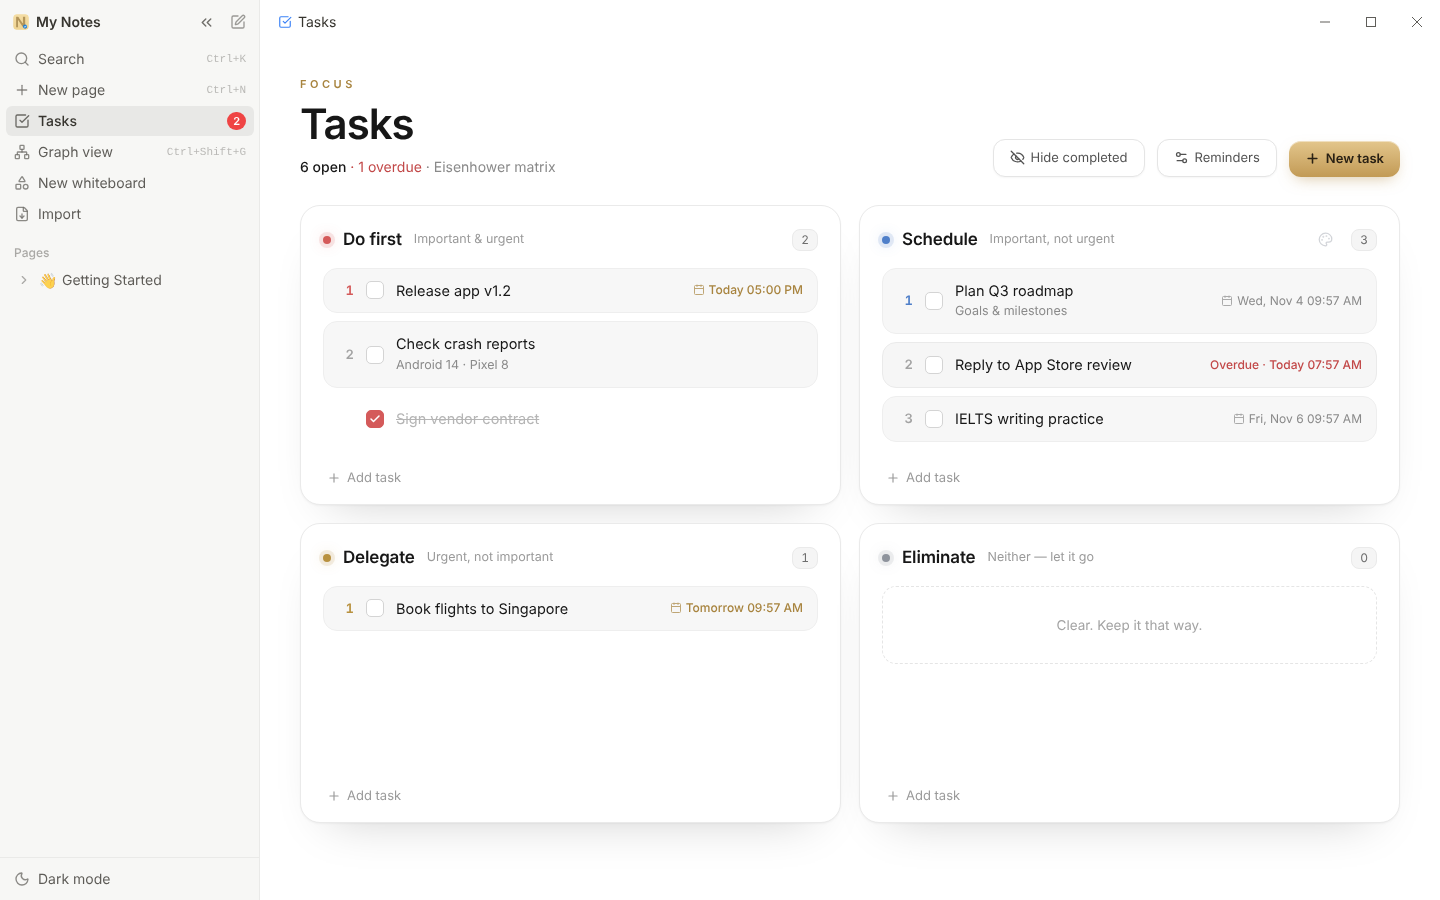
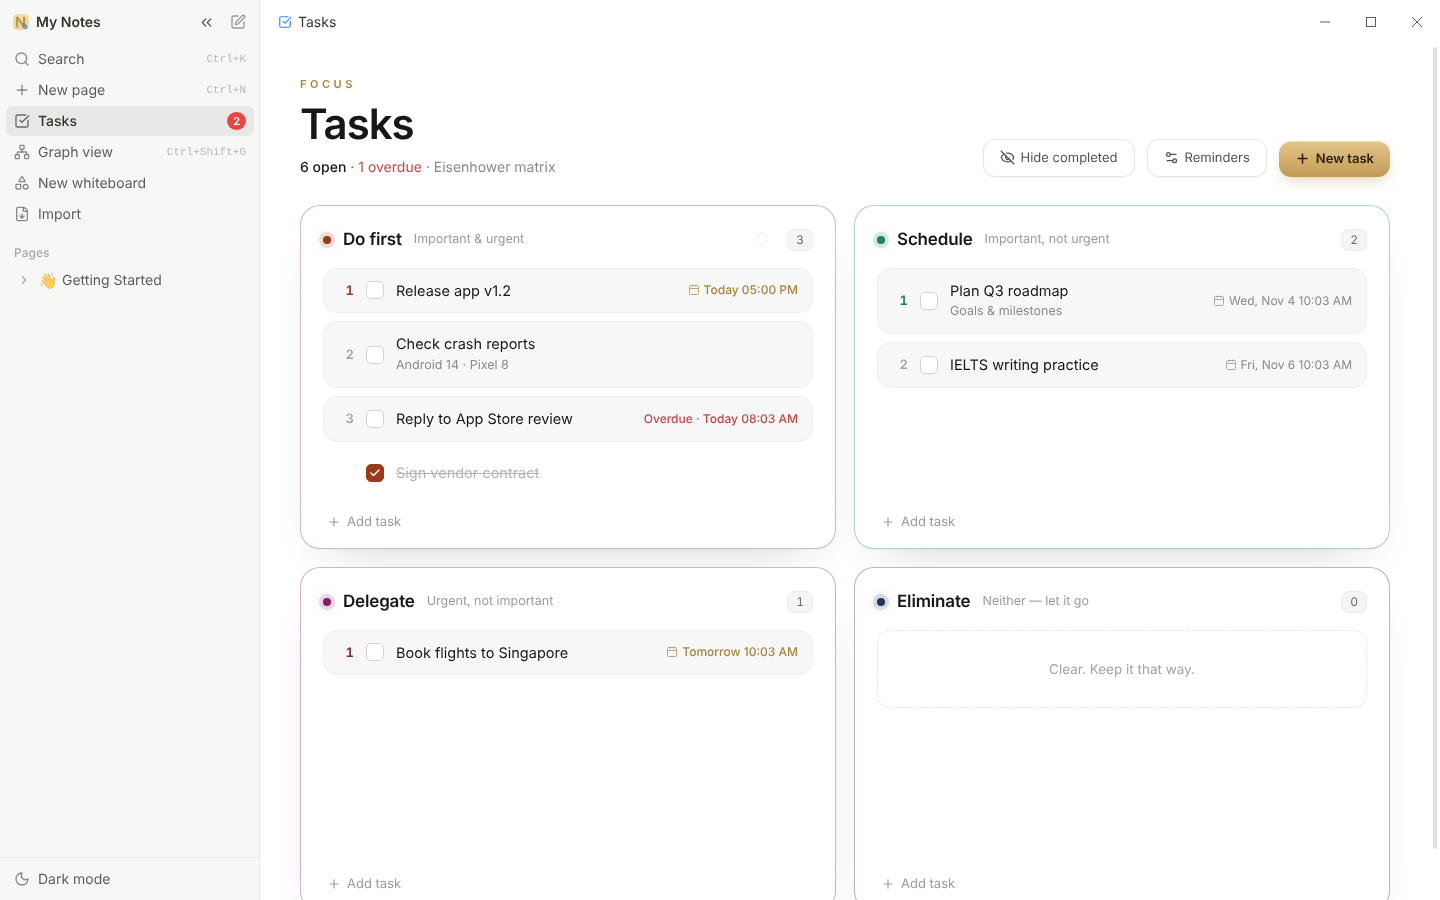
Tasks: new light-mode default quadrant colors with colored borders
Light-mode defaults: Do first #993A1A, Schedule #1C8256, Delegate #861D65,
Eliminate #233557 — dot, border (35%), done checkboxes and priority 1 use
them. Dark mode keeps its own defaults and plain borders. Custom colors
still override.

Claude-Session: https://claude.ai/code/session_01QpNh97sWBG9tMps76N7oQ1

diff --git a/tests/components/tasks.test.tsx b/tests/components/tasks.test.tsx
@@ -80,13 +80,18 @@ describe('TaskMatrix', () => {
     const dot = (region: HTMLElement) => within(region).getByTestId('quadrant-dot').style.background
     expect(dot(doFirst)).toBe('rgb(143, 191, 159)')
     expect(doFirst.style.borderColor).toBe('rgba(143, 191, 159, 0.35)')
-    expect(dot(screen.getByRole('region', { name: 'Schedule' }))).toBe('rgb(79, 127, 201)')
-    expect(screen.getByRole('region', { name: 'Schedule' }).style.borderColor).toBe('')
+    // Light-mode defaults: deep green for Schedule, with a matching border.
+    expect(dot(screen.getByRole('region', { name: 'Schedule' }))).toBe('rgb(28, 130, 86)')
+    expect(screen.getByRole('region', { name: 'Schedule' }).style.borderColor).toBe('rgba(28, 130, 86, 0.35)')
     await userEvent.click(within(doFirst).getByRole('button', { name: 'Color of Do first' }))
     await userEvent.click(within(doFirst).getByRole('button', { name: 'Default' }))
     expect(setSettings).toHaveBeenLastCalledWith({ quadrantColors: {} })
+    expect(dot(doFirst)).toBe('rgb(153, 58, 26)')
+    expect(doFirst.style.borderColor).toBe('rgba(153, 58, 26, 0.35)')
+    // Dark mode keeps its own defaults and no colored border unless recolored.
+    act(() => useAppStore.setState({ theme: 'dark' }))
+    expect(dot(doFirst)).toBe('rgb(224, 122, 122)')
     expect(doFirst.style.borderColor).toBe('')
-    expect(dot(doFirst)).toBe('rgb(212, 90, 90)')
   })
 
   it('shows the four quadrants with their meaning', () => {

diff --git a/src/components/Tasks/TaskMatrix.tsx b/src/components/Tasks/TaskMatrix.tsx
@@ -141,6 +141,9 @@ function QuadrantColumn({ id, tasks, now, flashId, onOpen, onAdd, onUpdate }: Qu
   const q = QUADRANTS.find((x) => x.id === id)!
   const accent = useQuadrantAccent(id)
   const custom = useTaskStore((s) => s.settings.quadrantColors?.[id])
+  const theme = useAppStore((s) => s.theme)
+  // Light mode: every quadrant has a border in its color. Dark mode: only when recolored.
+  const coloredBorder = !!custom || theme === 'light'
   const setQuadrantColor = (color: string | null) => {
     const { settings, setSettings } = useTaskStore.getState()
     const next = { ...settings.quadrantColors }
@@ -212,7 +215,7 @@ function QuadrantColumn({ id, tasks, now, flashId, onOpen, onAdd, onUpdate }: Qu
       )}
       style={{
         ...(dropAt !== null && { boxShadow: `0 0 0 2px ${withAlpha(accent, 0.55)}` }),
-        ...(custom && { borderColor: withAlpha(accent, 0.35) }),
+        ...(coloredBorder && { borderColor: withAlpha(accent, 0.35) }),
       }}
     >
 

diff --git a/src/components/Tasks/quadrantStyle.ts b/src/components/Tasks/quadrantStyle.ts
@@ -77,7 +77,7 @@ export const QUADRANT_DEFAULT_HEX: Record<Quadrant, string> = { do: '#f87171', s
 
 /** Midnight Onyx accents per quadrant (dot, corner glow, done checkbox), light and dark. */
 export const ONYX_ACCENT: Record<'light' | 'dark', Record<Quadrant, string>> = {
-  light: { do: '#D45A5A', schedule: '#4F7FC9', delegate: '#B8913F', eliminate: '#8E939C' },
+  light: { do: '#993A1A', schedule: '#1C8256', delegate: '#861D65', eliminate: '#233557' },
   dark: { do: '#E07A7A', schedule: '#7FA6E0', delegate: '#D9B97A', eliminate: '#8E939C' },
 }
 
